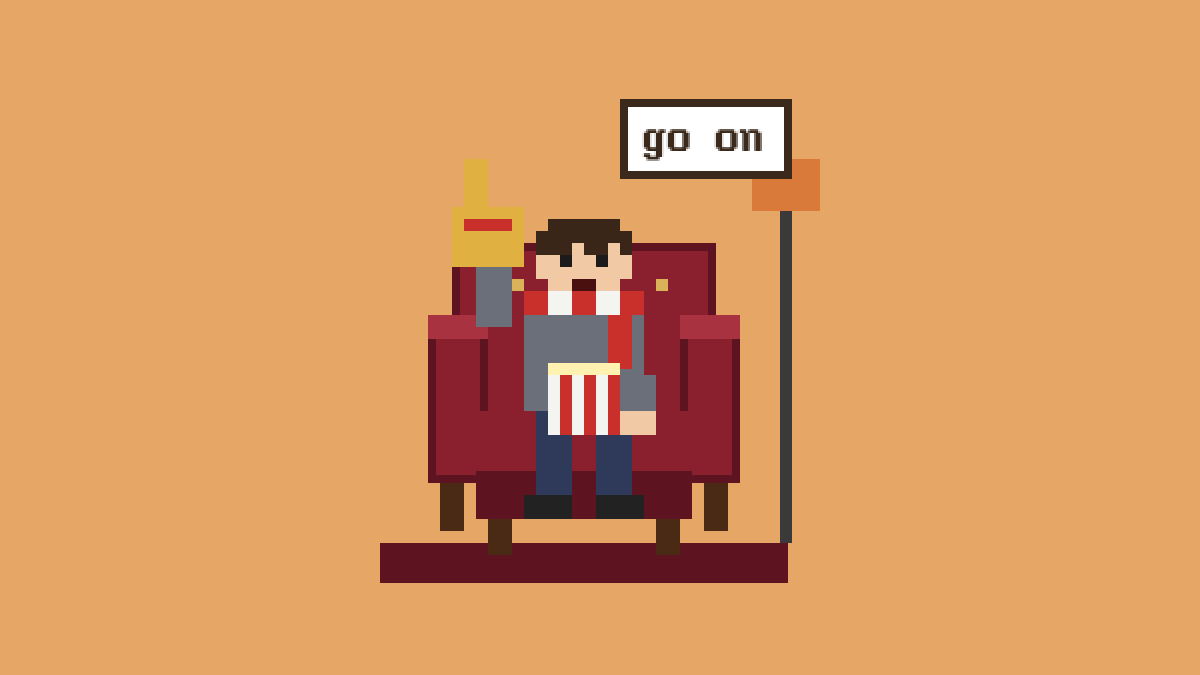
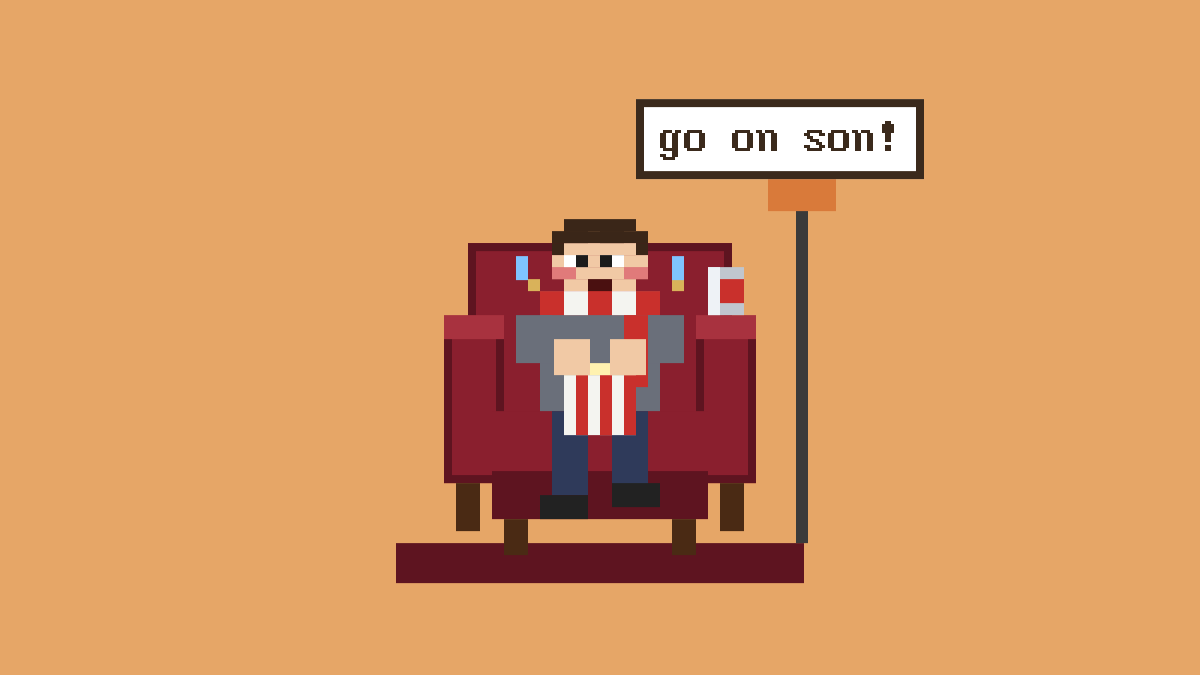
Rename to Sit & Watch and use the go on son preview
The listing on herdr.dev takes its name from the recipe heading, so the
heading, the panel title and the captions now read "Sit & Watch". The
preview shows the level 2 pose, clapping with "go on son!", rendered from
the mod's own art code. Internal ids stay sitandwatch.

Claude-Session: https://claude.ai/code/session_01PKoSbpkBsFqgtZMpNrNhNX

Changed region(s): [[0.3392, 0.2178, 0.6783, 0.8711], [0.4933, 0.1244, 0.7708, 0.3111], [0.3083, 0.8089, 0.3392, 0.8711]]

diff --git a/sitandwatch/hooks/sitandwatch-ship.py b/sitandwatch/hooks/sitandwatch-ship.py
@@ -1,6 +1,6 @@
 #!/usr/bin/env python3
 """PostToolUse hook (Bash): when a command actually ships something, set off the
-SitAndWatch explosion in the Herdr app. Never blocks or fails the tool call."""
+Sit & Watch explosion in the Herdr app. Never blocks or fails the tool call."""
 import json
 import re
 import shutil

diff --git a/sitandwatch/RECIPE.md b/sitandwatch/RECIPE.md
@@ -1,4 +1,4 @@
-# SitAndWatch
+# Sit & Watch
 
 A pixel-art sidebar panel for the Herdr app. Every agent is a little robot at a desk, and below
 them a developer sits in a red velvet armchair in the corner, watching them work. The more agents
@@ -6,7 +6,7 @@ are working, the more worked up he gets: from an empty chair when nothing is run
 popcorn and a foam finger, to a standing ovation with confetti. He sobs when an agent needs you and
 sets off a party popper when one finishes.
 
-![SitAndWatch](preview.png)
+![Sit & Watch](preview.png)
 
 ## What you see
 
@@ -145,7 +145,7 @@ wins, and `spectator()` draws that one pose and speech set. `m` comes from `trac
 
 ## Built from
 
-- `mods/sitandwatch/mod.json`: `{ "place": "left", "size": 280, "title": "SitAndWatch" }`.
+- `mods/sitandwatch/mod.json`: `{ "place": "left", "size": 280, "title": "Sit & Watch" }`.
 - `mods/sitandwatch/panel.js`: the panel (`panel(list, party, opts)`), desks, `devLevel(list)` and
   `resolveMood(m, level)`.
 - `mods/sitandwatch/lines.js`: what he says, `pool()` and `pickLine()`.

diff --git a/README.md b/README.md
@@ -7,7 +7,7 @@ desks. You are the developer in the red velvet armchair in the corner, watching 
 work. The more of them are working, the more excited you get. See
 [sitandwatch/RECIPE.md](sitandwatch/RECIPE.md) for how it is built.
 
-<img src="sitandwatch/demo.gif" width="270" alt="SitAndWatch demo mode cycling through every state">
+<img src="sitandwatch/demo.gif" width="270" alt="Sit &amp; Watch demo mode cycling through every state">
 
 ## What he does
 
